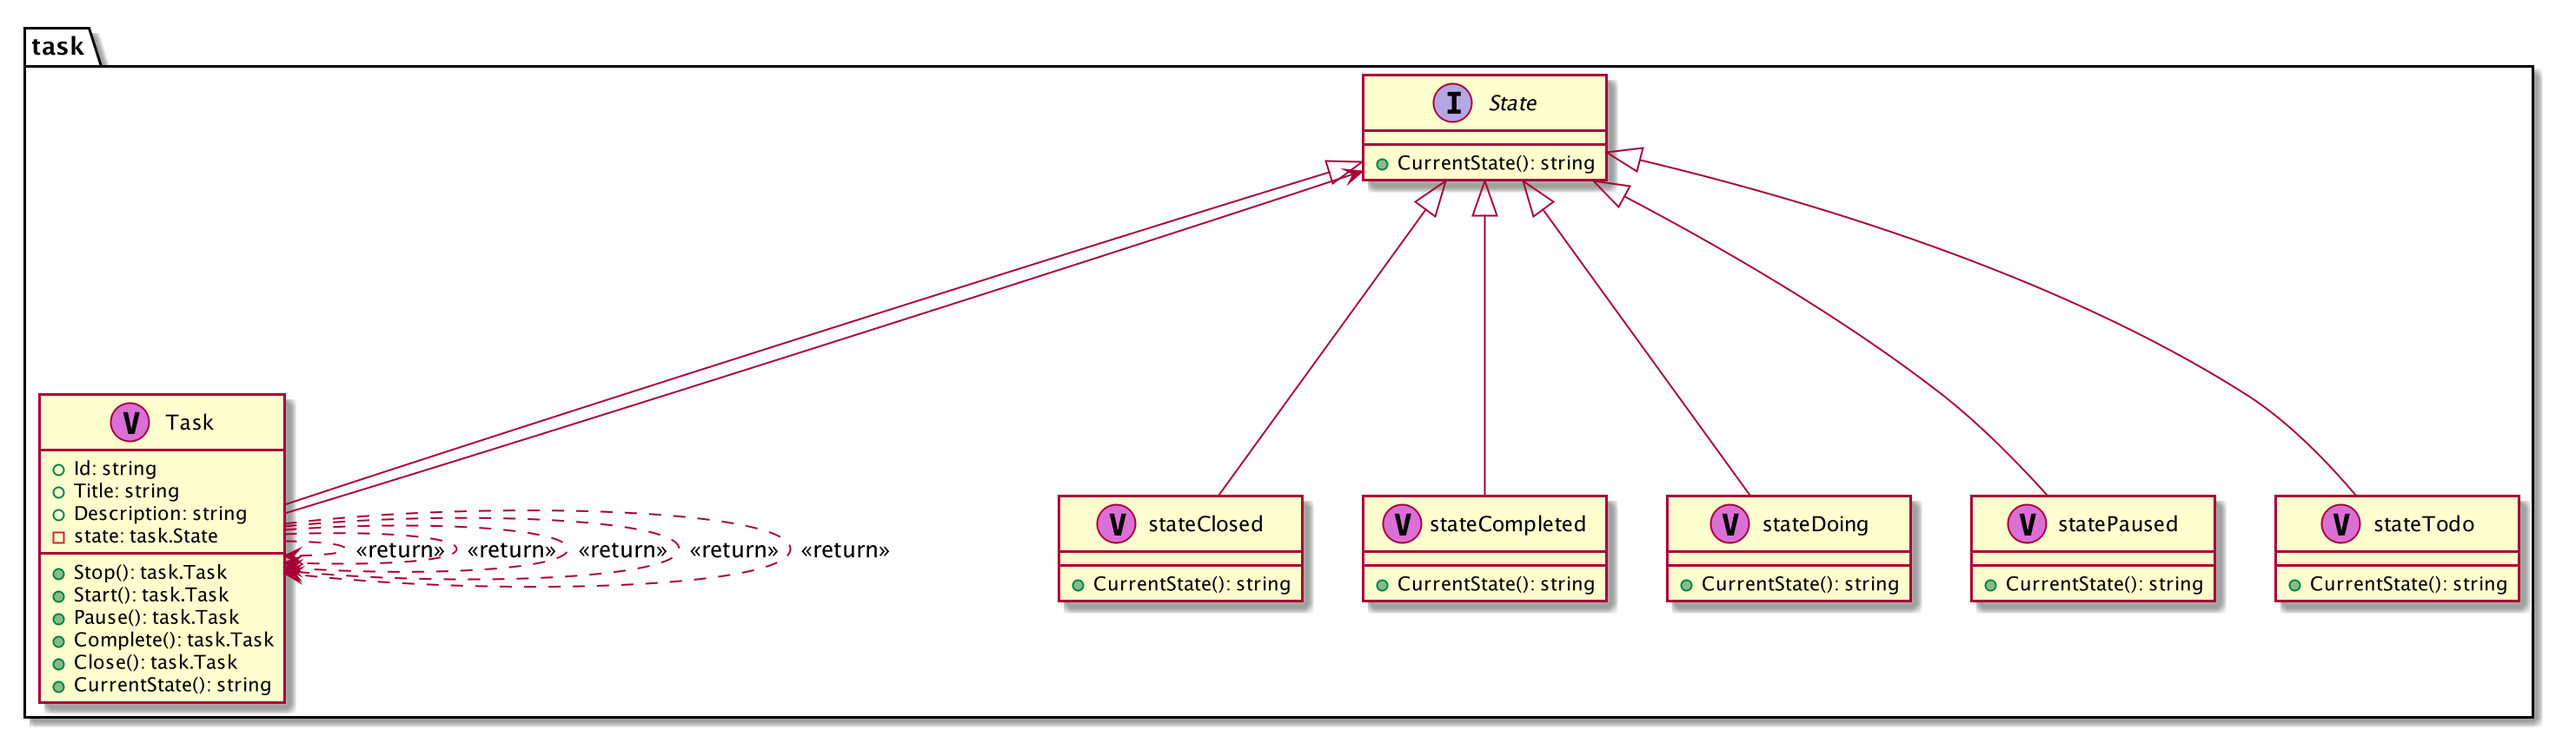
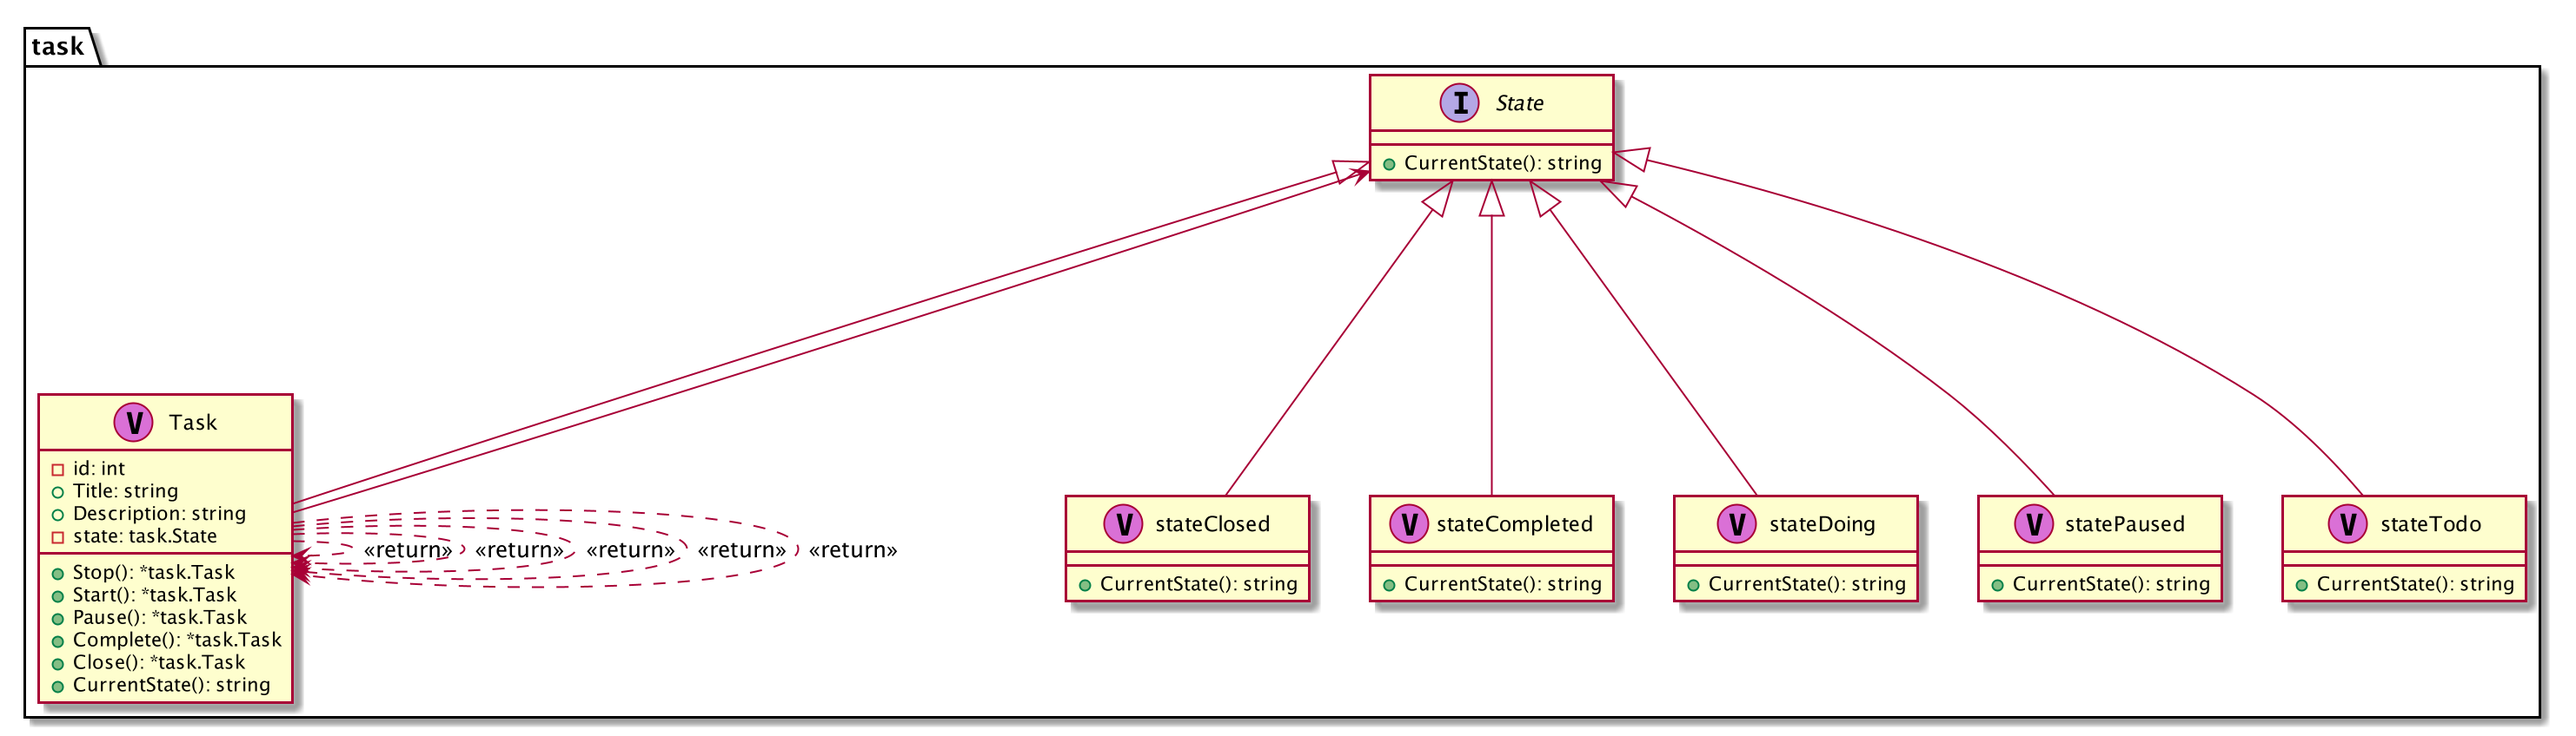
change domain

diff --git a/domain/task/task.go b/domain/task/task.go
@@ -1,47 +1,47 @@
 package task
 
 type Task struct {
-	Id          string
+	id          int
 	Title       string
 	Description string
 	state       State
 }
 
-func NewTask(title, description string) Task {
-	return Task{
+func NewTask(title, description string) *Task {
+	return &Task{
 		// TODO: assign unique ID
-		Id:          "1000",
+		id:          1,
 		Title:       title,
 		Description: description,
 		state:       stateTodo{},
 	}
 }
 
-func (t Task) Stop() Task {
+func (t *Task) Stop() *Task {
 	t.state = stateTodo{}
 	return t
 }
 
-func (t Task) Start() Task {
+func (t *Task) Start() *Task {
 	t.state = stateDoing{}
 	return t
 }
 
-func (t Task) Pause() Task {
+func (t *Task) Pause() *Task {
 	t.state = statePaused{}
 	return t
 }
 
-func (t Task) Complete() Task {
+func (t *Task) Complete() *Task {
 	t.state = stateCompleted{}
 	return t
 }
 
-func (t Task) Close() Task {
+func (t *Task) Close() *Task {
 	t.state = stateClosed{}
 	return t
 }
 
-func (t Task) CurrentState() string {
+func (t *Task) CurrentState() string {
 	return t.state.CurrentState()
 }
